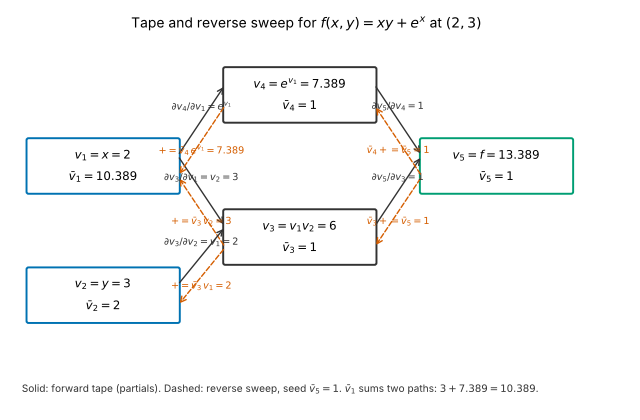
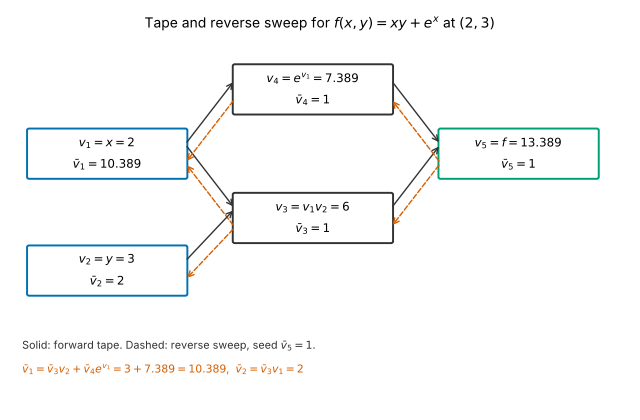
Add numerical methods diagrams; fix antithetic variance ratio at equal cost
Claude-Session: https://claude.ai/code/session_011jxtZvfPgVEi4xYQRFGwx1

diff --git a/.anchor/session-state.md b/.anchor/session-state.md
@@ -1,26 +1,25 @@
 # Session state (auto-saved — last known reality)
 
-_Updated: 2026-10-19 19:35:39_  ·  branch: `claude/quant-deck-cpp-training-0rix4z`
+_Updated: 2026-10-19 19:35:49_  ·  branch: `claude/quant-deck-cpp-training-0rix4z`
 
 ## Uncommitted changes
 ```
  M .anchor/session-state.md
  M anki-deskstrat-rates-credit/media/08_coding_numerics__v3_19_calibration_surface.png
  M anki-deskstrat-rates-credit/media/08_coding_numerics__v3_1_aad_reverse_sweep.png
- M anki-deskstrat-rates-credit/media/08_coding_numerics__v3_6_pca_loadings.png
 ```
 
 Diff stat:
 ```
- .anchor/session-state.md                           |  26 ++++-----------------
- ..._coding_numerics__v3_19_calibration_surface.png | Bin 70216 -> 67157 bytes
- .../08_coding_numerics__v3_1_aad_reverse_sweep.png | Bin 45422 -> 47153 bytes
- .../08_coding_numerics__v3_6_pca_loadings.png      | Bin 69520 -> 65914 bytes
- 4 files changed, 4 insertions(+), 22 deletions(-)
+ .anchor/session-state.md                           |  25 +--------------------
+ ..._coding_numerics__v3_19_calibration_surface.png | Bin 67157 -> 64549 bytes
+ .../08_coding_numerics__v3_1_aad_reverse_sweep.png | Bin 47153 -> 41372 bytes
+ 3 files changed, 1 insertion(+), 24 deletions(-)
 ```
 
 ## Recent commits
 ```
+89506d5 WIP: diagrams in progress
 93e95b5 Add XVA and repo diagrams
 faa503d WIP: diagrams in progress
 36bb9ae Add CDS and desk 6-9 diagrams; fix sovereign credit events, repo spike currency, hazard sensitivity
@@ -28,7 +27,6 @@ faa503d WIP: diagrams in progress
 c127387 Add foundations probability/fixed-income diagrams
 460309a Add foundations derivatives/stats diagrams
 1ad8934 Add markets scenarios diagrams; fact-check fixes options and structured top-ups
-1908716 Add credit models diagrams; clarify RPV01 units
 ```
 
 ## Resume
